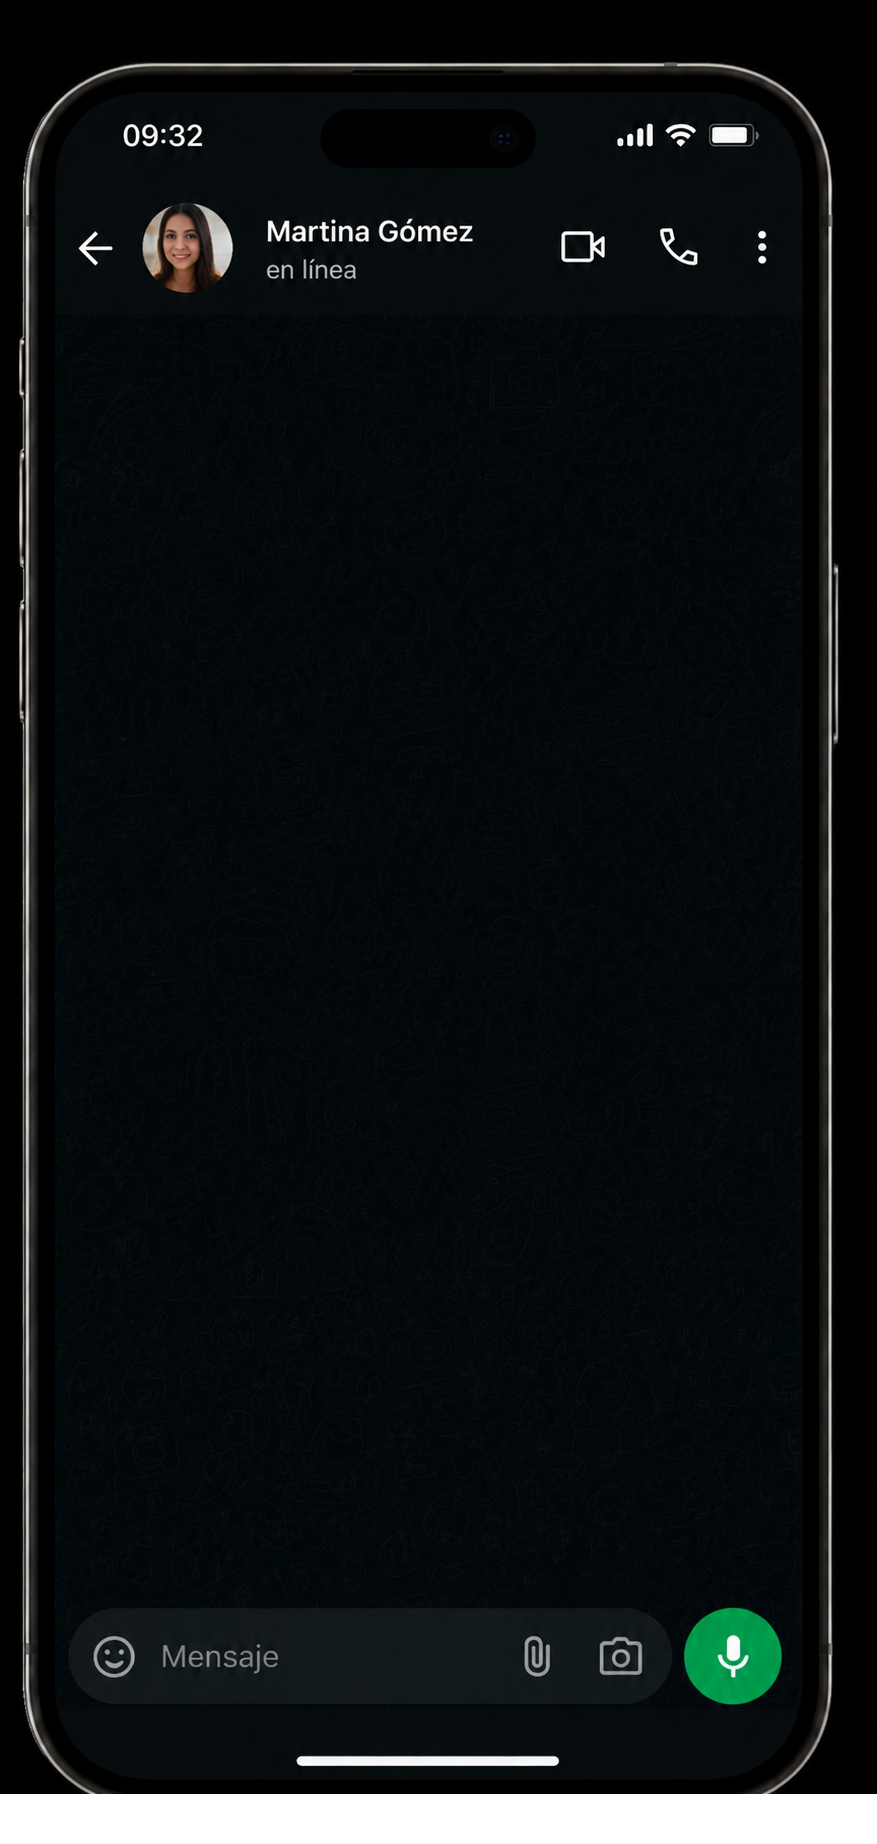
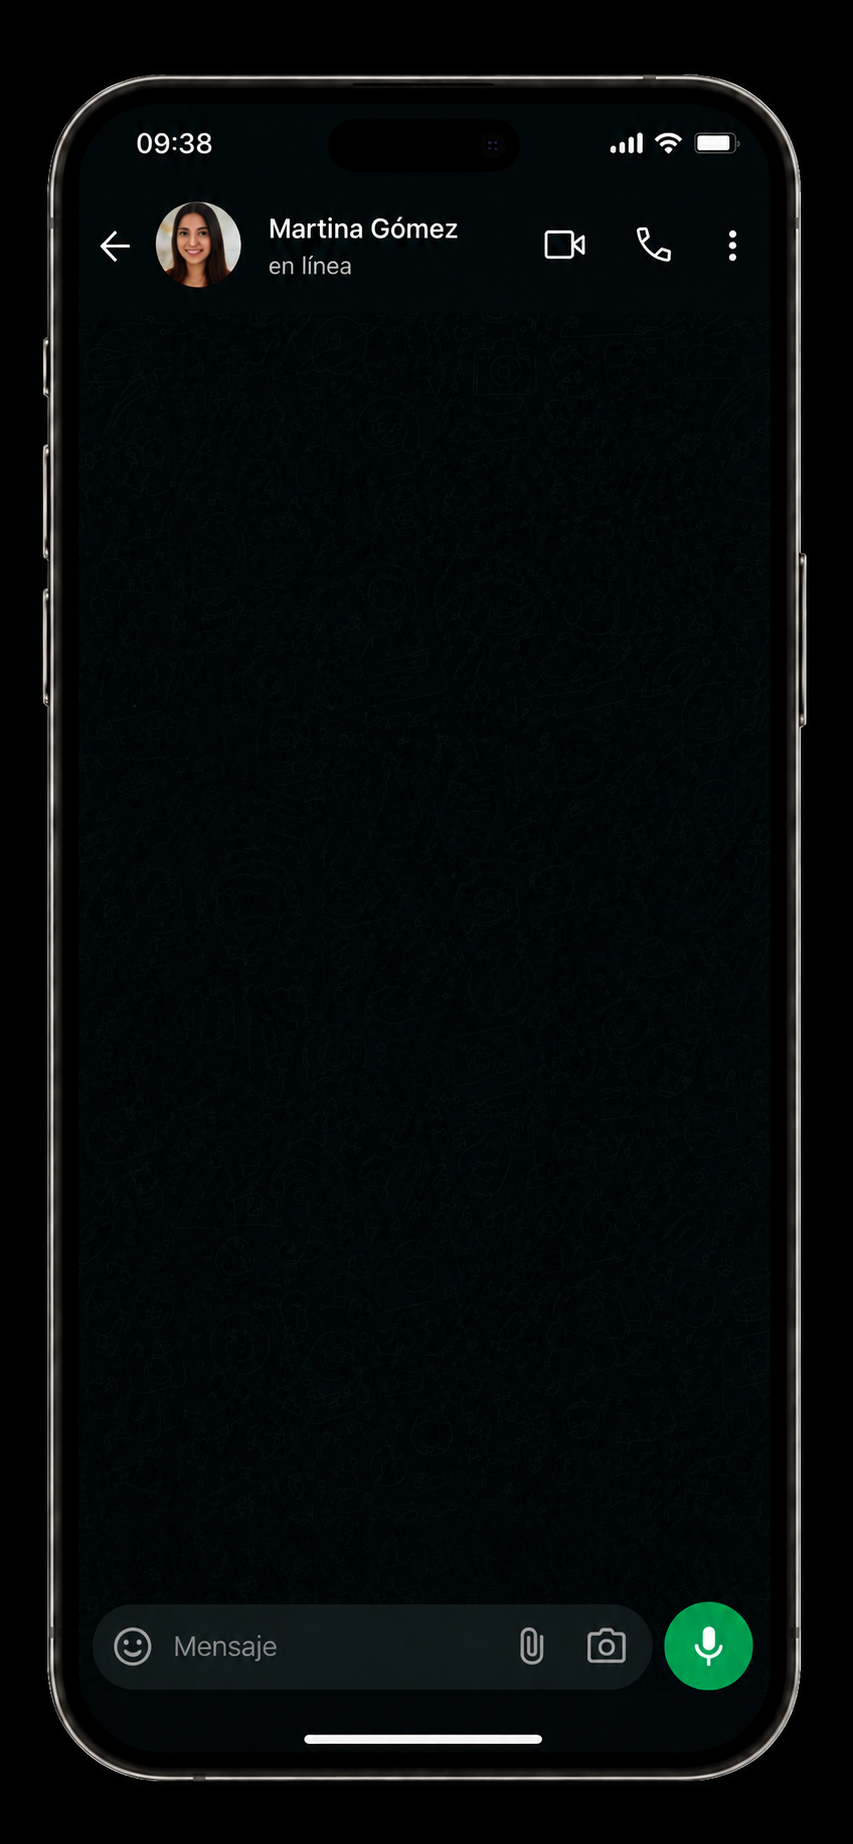
Fix cropped phone mockup in closing WhatsApp scene
The business-reply photo had 0px margin at the bottom, cutting the
phone's corner bezel mid-curve — no amount of repositioning in
WhatsAppScene could fix that since the pixels for a complete corner
never existed in the file. Replaced with a corrected photo (same
853x1844 canvas as CatalogRequestScene's) with real margin on all
sides, and re-measured the chat-area insets against it.

diff --git a/src/scenes/WhatsAppScene.tsx b/src/scenes/WhatsAppScene.tsx
@@ -28,22 +28,16 @@ const REPLY_MESSAGE =
 const PICKUP_MESSAGE = "Lo retiro por local, gracias";
 
 const MOCKUP_SRC = staticFile("/mockups/whatsapp-dark-iphone-business.png");
-// The original photo (877x1794) had the phone's two bottom corners
-// touching the very last pixel row — 0px margin, so the frame read as
-// cropped no matter how this scene was positioned. Padded with 50px of
-// solid black at the bottom (now 877x1844) to give it real breathing
-// room. Measured from the ORIGINAL photo's own pixels: header bottom
-// edge at y≈285, input bar top edge at y≈1600, screen sides at
-// x≈55/802 — all still valid measured from the top, since only rows
-// were added below. Re-measure if this reference image is ever
-// swapped for an unpadded one.
-const IMAGE_ASPECT = 1844 / 877;
-const CHAT_AREA = { top: "15.5%", bottom: "13.2%", left: "6.3%", right: "8.6%" };
-// This reference photo's phone content is shorter relative to its
-// width than CatalogRequestScene's — at the same `width` the two
-// phones would render at different sizes, this one noticeably smaller.
-// Widened so both scenes' phones render at the same on-screen height.
-const MOCKUP_WIDTH = 803;
+// A corrected version of the reference photo (the first one had the
+// phone's bottom corners touching the very last pixel row — 0px
+// margin, cropped no matter how this scene was positioned). This one
+// is 853x1844 — same canvas size as CatalogRequestScene's own photo —
+// with real margin on all sides. Measured from this photo's own
+// pixels: header bottom edge at y≈285, input bar top edge at y≈1595,
+// screen sides at x≈78/770. Re-measure if this reference image is
+// ever swapped.
+const IMAGE_ASPECT = 1844 / 853;
+const CHAT_AREA = { top: "15.5%", bottom: "13.6%", left: "9.1%", right: "9.7%" };
 
 // Just the order + confirmation — the earlier catalog-request history
 // made this scene's chat too long/busy, so it's not carried over here
@@ -71,7 +65,7 @@ export const WhatsAppScene: React.FC = () => {
     <AbsoluteFill>
       <Backdrop />
       <AbsoluteFill style={{ alignItems: "center", justifyContent: "center" }}>
-        <PhotoPhoneMockup width={MOCKUP_WIDTH} src={MOCKUP_SRC} imageAspect={IMAGE_ASPECT} chatArea={CHAT_AREA}>
+        <PhotoPhoneMockup width={760} src={MOCKUP_SRC} imageAspect={IMAGE_ASPECT} chatArea={CHAT_AREA}>
           <DarkChatLog bubbles={BUBBLES} />
         </PhotoPhoneMockup>
       </AbsoluteFill>
